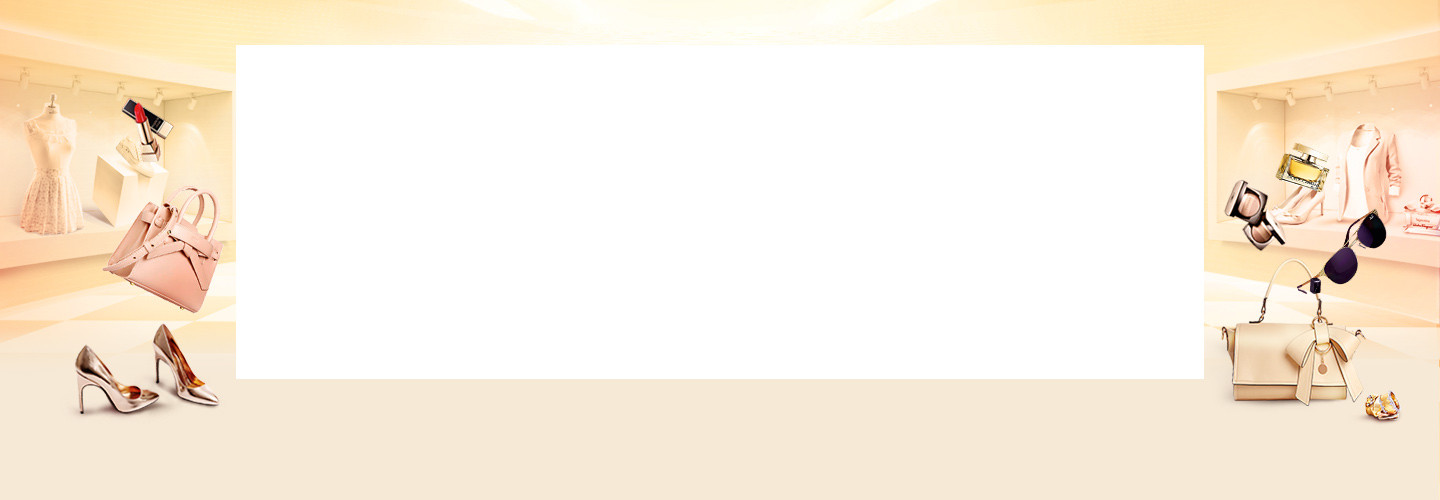
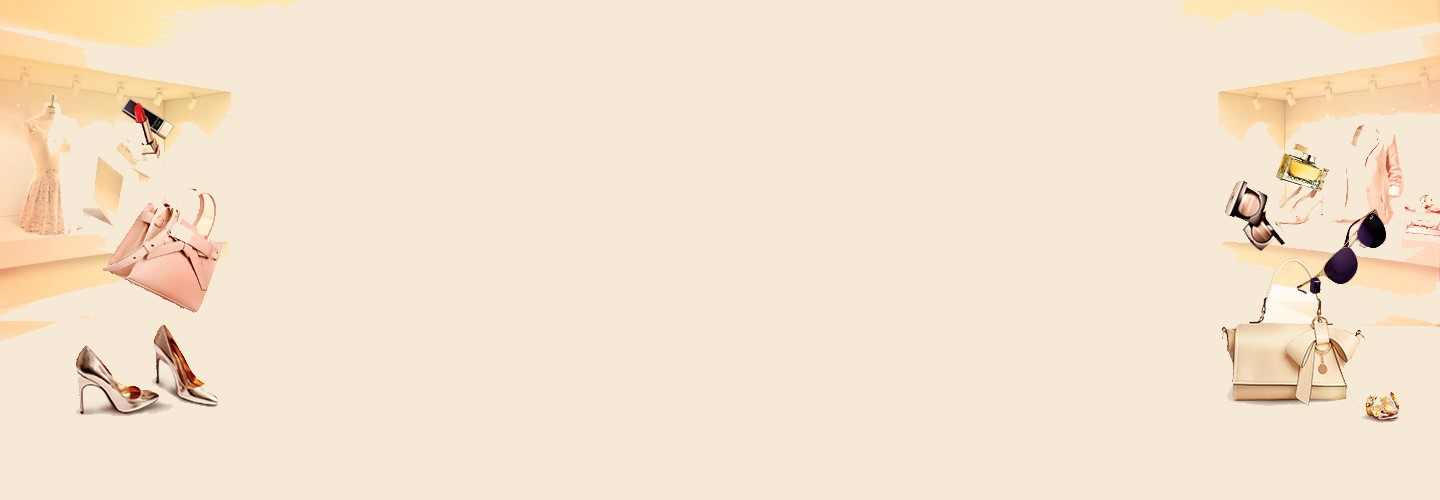
debug

diff --git a/css/index_homePage.css b/css/index_homePage.css
@@ -939,7 +939,9 @@ body{
 	transform:translatex(-50%);
 	background:#f6e9d6;
 	padding-top:30px;
+	box-shadow: -1000px 0px 10px #f6e9d6,0px 0 0 #fff,1000px 0px 10px #f6e9d6,0px 0 0 #fff;
 }
+
 #banner_buttom_img>.container{
 	width: 1020px;
 	transform:translatex(20px);
